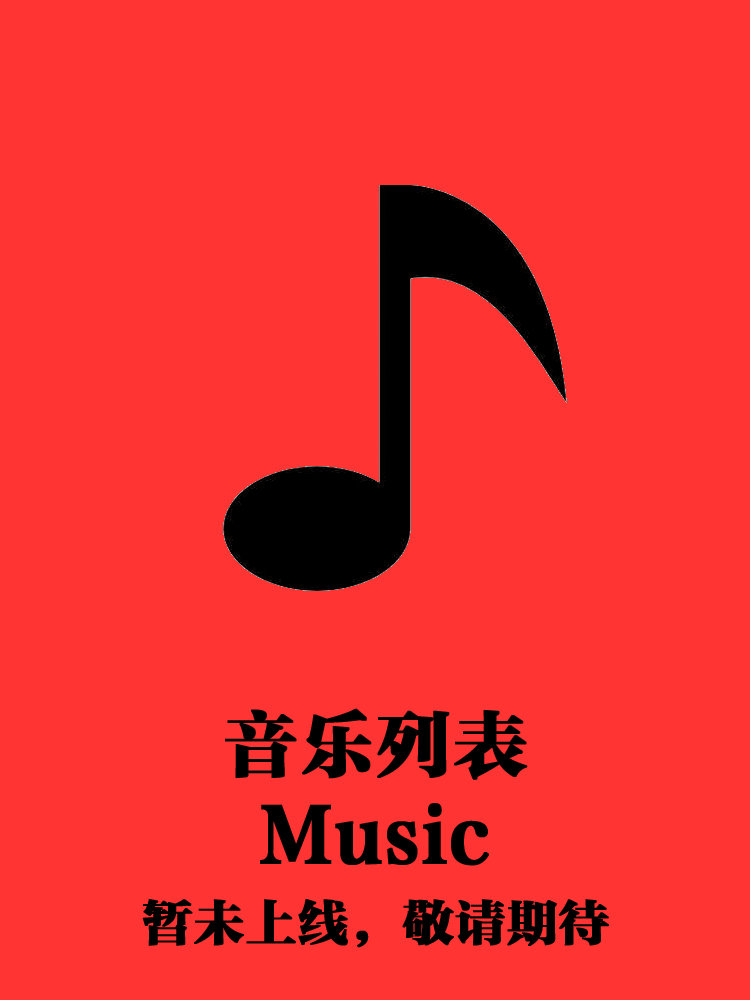
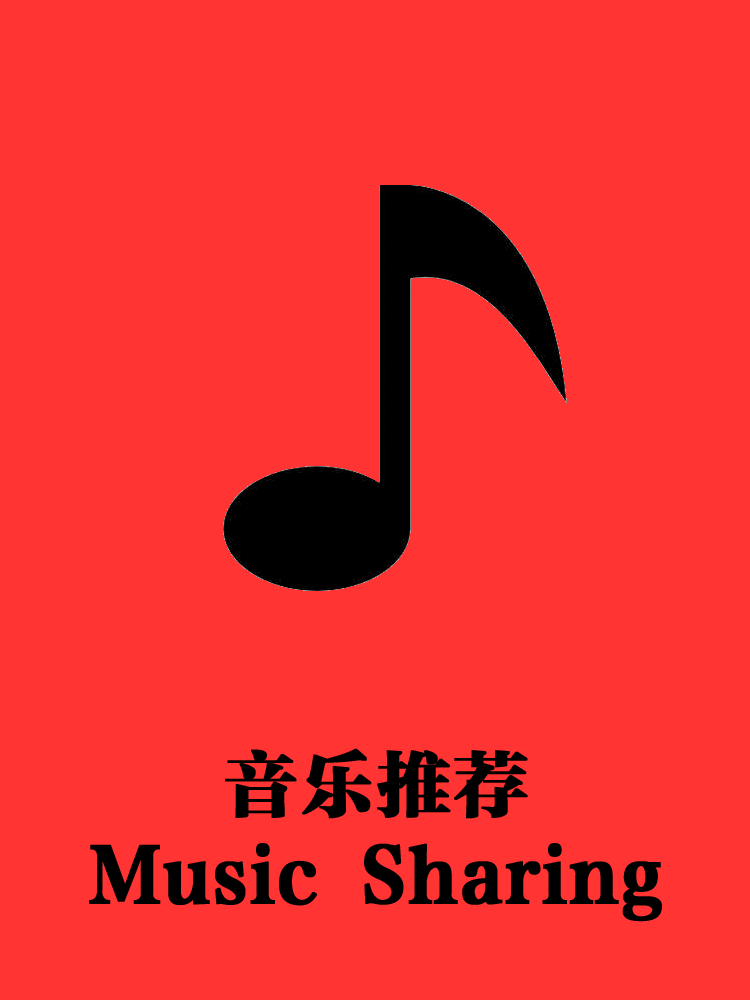
open music area

Changed region(s): [[0.1227, 0.713, 0.8893, 0.961]]

diff --git a/musics.html b/musics.html
@@ -1,0 +1,77 @@
+<!DOCTYPE html>
+<html>
+<head>
+    <meta charset="UTF-8">
+    <title>Xhaotiany Music list</title>
+    <style>
+        @font-face{
+                font-family: '方正特雅宋';
+                src: url('fonts/fztys.ttf');
+            }
+                @font-face {
+                font-family: '思源宋体';
+                src: url('fonts/siyst.otf');
+             }
+        a{
+            color:blue;
+        }
+        p{
+            font-family: "思源宋体";
+            font-size:20px;
+        }
+        .sn{
+            font-size:25px;
+            font-family: '方正特雅宋';
+        }
+
+    </style>
+    <h1 style="color:crimson;font-family: 方正特雅宋;font-size:50px;">音乐库</h1><br/>
+</head>
+<body>
+    <p>
+        <span class="sn">Ruins-Toby fox</span><br/>
+        此曲为游戏《<a href="https://undertale.com" target="_blank">Undertale</a>》中【遗迹】的场景音乐。<br/>
+        Undertale，是由toby fox一人开发的一款像素类rpg游戏，该游戏在2015-9-15在steam平台随同ost一同发售，定价为36rmb.<br/>
+        此处在线听：
+    </p>
+    <audio src="https://webfs.yun.kugou.com/202101291901/f7e77550e1103263324c6b3430d2864a/G053/M0A/0A/18/dQ0DAFaVAGuAXv41ABaNOxOWKb8347.mp3" preload="auto" controls="controls">
+        此音乐控件为直接从酷狗播放，如您能看到此段文字，请检查您的网络或浏览器.
+    </audio>
+    <br/><br/><br/>
+    <p>
+        <span class="sn">MEGALOVANIA-Toby fox</span><br/>
+        此曲为游戏《<a href="https://undertale.com" target="_blank">Undertale</a>》中【审判战】时的战斗音乐。<br/>
+        此处在线听：
+    </p>
+    <audio src="https://webfs.yun.kugou.com/202101292319/9aaee533ebe0bbb784fdccacc6604568/G055/M09/03/08/dw0DAFaVBHaATOmtACYbRkkWB3A993.mp3" preload="auto" controls="controls">
+        此音乐为酷狗音乐库链接，如您能看到此段文字，请检查您的网络或浏览器.
+    </audio>
+    <br/><br/><br/>
+    <p>
+        <span class="sn">打上花火-米津玄师&DAOKO</span><br/>
+        电影《烟花》主题曲。<br>
+        此处在线听：
+    </p>
+    <audio src="https://win-web-nf01-sycdn.kuwo.cn/7b0de2b53cb671d5b67475b6f2000599/60142c51/resource/n1/55/56/394740245.mp3" preload="auto" controls="controls">
+        此音乐为酷我音乐库链接，如您能看到此段文字，请检查您的网络链接与浏览器问题.
+    </audio>
+    <br/><br/><br/>
+    <p>
+        <span class="sn">Tokyovania x Streng of will</span><br/>
+        这首曲子混合了Undertale的两首同人曲之最，好听到爆真的<br/>
+        此处在线听：
+    </p>
+    <audio src="https://upos-sz-mirrorhw.bilivideo.com/upgcxcode/81/50/231955081/231955081-1-192.mp4?e=ig8euxZM2rNcNbU3hwdVhoMBnwdVhwdEto8g5X10ugNcXBMvNC8xNbLEkF6MuwLStj8fqJ0EkX1ftx7Sqr_aio8_&uipk=5&nbs=1&deadline=1611942743&gen=playurl&os=hwbv&oi=978800370&trid=0729f3b400544d0f9de5eca416eebc5cT&platform=html5&upsig=67e9b93677c838c500e08dd5e39c3981&uparams=e,uipk,nbs,deadline,gen,os,oi,trid,platform&mid=524602686&orderid=0,1&logo=80000000" preload="auto" controls="controls">
+        此音乐为bilibilimp4链接，如您能看到此段文字，请优先检查您的网络.如其他非bilibili音频均加载正常，请联系管理员.
+    </audio>
+    <br/><br/><br/>
+    <p>
+        <span class="sn">Streng of will[Frisk Megalo]</span><br/>
+        这首曲子是undertale的同人曲，故事背景不清楚但歌是真的好听<br/>
+        此处在线听：
+    </p>
+    <audio src="https://upos-sz-mirrorkodo.bilivideo.com/upgcxcode/17/90/133639017/133639017-1-208.mp4?e=ig8euxZM2rNcNbR37wdVhwdlhW4MhwdVhoNvNC8BqJIzNbfq9rVEuxTEnE8L5F6VnEsSTx0vkX8fqJeYTj_lta53NCM=&uipk=5&nbs=1&deadline=1611944749&gen=playurl&os=kodobv&oi=978800370&trid=c886cc29860748aba623527f5f5a97a1T&platform=html5&upsig=ddbf0f1ea71248da63b069f62e96cb59&uparams=e,uipk,nbs,deadline,gen,os,oi,trid,platform&mid=524602686&orderid=0,1&logo=80000000" preload="auto" controls="controls">
+        此音乐为bilibilimp4链接，如您能看到此段文字，请优先检查您的网络.如其他非bilibili音频均加载正常，请联系管理员.
+    </audio>
+    <br/><br/><br/>
+</html>

diff --git a/index.html b/index.html
@@ -39,6 +39,6 @@
         <p class="b">在下面选择您需要的服务：</p>
         <a href="videos.html" target="_blank"><img src="images/button 1.png" alt="？您的傻逼浏览器不会不能看图吧，不会吧不会吧，赶紧给爷爬" width="20%" height="20%"/ title="视频页"></a>
         <a href="list.html" target="_blank"  ><img src="images/button 2.png" alt="" width="20%" height="20%" title="收益列表"></a>
-        <a href=" "><img src="images/button 3.png" alt="" width="20%" height="20%" title="暂未开放"></a>
+        <a href="musics.html"><img src="images/button 3.png" alt="" width="20%" height="20%" title="音乐推荐"></a>
     </body>
 </html>

diff --git a/list.html b/list.html
@@ -1,5 +1,5 @@
 <!DOCTYPE html>
-<html lang="en">
+<html>
 <head>
     <meta charset="UTF-8">
     <title>877027906 List</title>
